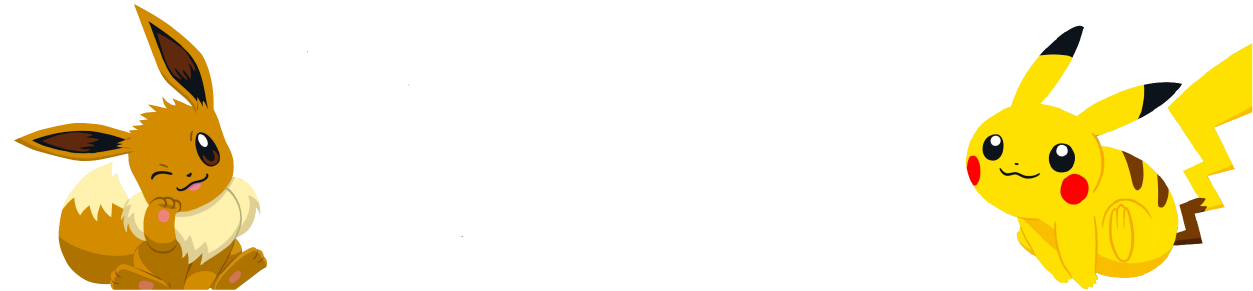
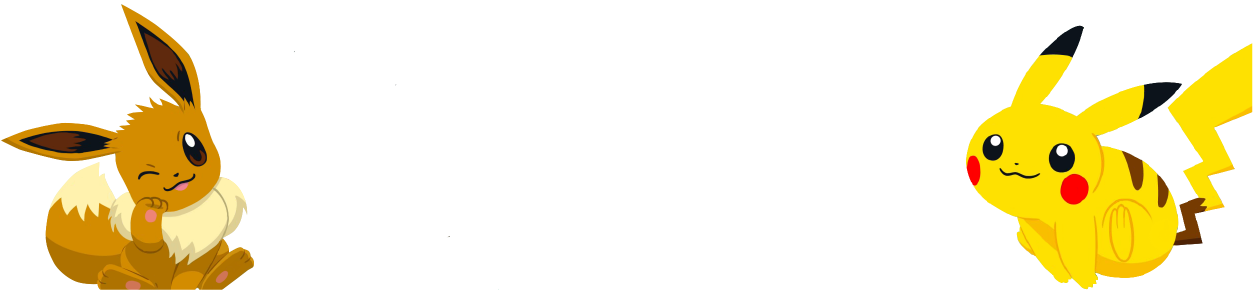
adaptar css caja,  background y elementos padre

Changed region(s): [[0.0, 0.0, 0.2179, 1.0]]

diff --git a/src/main.js b/src/main.js
@@ -58,16 +58,37 @@ let pokeId2 = null;
 let firstPokemon = null;
 let secondPokemon = null;
 
-let score = 0;
-let flips = 0;
+// variables extras para mostrar el score, flips y el timer
+let score = 0; //aciertos
+let flips = 0; //movimientos
+// let tellTime = false; //decir el tiempo
+// let seconds = 3;
+// let countdownTimeId = null; //tiempo regresivo (para que no se vaya a numeros negativos el contador)
 
 // variable para apuntar en el HTML el lugar que se esta insertando los flips y score linea 36 y 38
+// let seeTimer = document.getElementById("time");
 let showFlips = document.getElementById("flips");
 let showScore = document.getElementById("score");
+let selectCards = document.getElementsByClassName("cardsPokemon"); //variable principal del ciclo for y para hacer el refres, que sale del bloque donde se unen las cartas de la linea 38
 
-let selectCards = document.getElementsByClassName("cardsPokemon");
 for (const card of selectCards) {
   card.addEventListener("click", function () {
+    // if (tellTime == false) {
+    //   countTime();
+    //   tellTime = true;
+    // }
+
+    // function countTime() {
+    //   countdownTimeId ==
+    //     setInterval(() => {
+    //       tellTime--;
+    //       seeTimer.innerHTML = `Tiempo: ${seconds} segundos`;
+    //       if (timer == 0) {
+    //         clearInterval(countdownTimeId);
+    //       }
+    //     }, 1000);
+    // }
+
     // list almacena todos los elementos con la clase is flipped
     flippedCards++; // vamos a sumar en el contador de tarjetas 1
     if (flippedCards == 1) {
@@ -123,32 +144,15 @@ function eventFire(el, etype) {
 
 // ------------------------------------------------------------------------------------------------------------------------------------------------------------------------------------------------------------------------------//
 
+// Resetear el juego
+// let boxCardsPokemonReload = "cardsPokemon";
+// document.getElementById("reseatGame").innerHTML = boxCardsPokemonReload;
+
 // Resetear juego
 // Sort arregla los elementos de un array dependiendo del criterio que nosotros querramos aplicar
 // to string, convierte un objeto en un string, por ejemplo un numero dentro de un array
-// function resetGame() {
+
+// function reseatGame() {
 //   card.sort(function () {
 //     return Math.random() - 0.5;
 //   });
-
-//   for (var index = 0; index < 18; index++) {
-//     let card = card[index].id;
-//     let dato = document.getElementById(index.toString());
-//     dato.dataset.valor = carta;
-//   }
-// }
-
-// Reset juego
-// Sort arregla los elementos de un array dependiendo del criterio que nosotros querramos aplicar
-// to string, convierte un objeto en un string, por ejemplo un numero dentro de un array
-// function resetGame() {
-//   card.sort(function () {
-//     return Math.random() - 0.5;
-//   });
-
-//   for (var index = 0; index < 18; index++) {
-//     let card = card[index].id;
-//     let dato = document.getElementById(index.toString());
-//     dato.dataset.valor = carta;
-//   }
-// }

diff --git a/src/style.css b/src/style.css
@@ -13,7 +13,7 @@ h2 {
   font-weight: bold;
   text-align: center;
   color: aliceblue;
-  font-size: 23px;
+  font-size: 1.5rem;
 }
 
 header {
@@ -23,20 +23,21 @@ header {
   background-size: cover;
 }
 
+
 #logo {
-  width: 70%;
+  width: 40vw;
 }
 
-/* main {
-  display: flex;
-  align-items: center;
-} */
+
+.fatherPokeMatchCards{
+display: flex;
+justify-content: center;
+}
+
 
 #pokeMatchCards {
-  max-width: 1000px;
-  margin-left: 30%;
-  margin-right: 25%;
-  padding: 1em;
+  max-width: 40vw;
+  padding: 2vw;
   display: flex;
   flex-direction: row;
   flex-wrap: wrap;
@@ -75,7 +76,6 @@ header {
 }
 
 
-
 .cardCommon {
   position: absolute;
   width: 100%;
@@ -99,16 +99,30 @@ header {
   transform: rotateY(180deg);
 }
 
-/* Aciertos, tiempo y movimientos */
+
+
+
+
+.fatherScoreTimeAndFlips{
+  display: flex;
+  justify-content: center;
+}
+
+/* Aciertos, tiempo(ya no) y movimientos */
 .scoreTimeAndFlips {
+  display: flex;
+  flex-wrap: wrap;
   background-color: #976eaa;
   border-radius: 8px;
   width: 80%;
-  height: 300px;
+  height: 200px;
   align-items: center;
-  padding: 1.2em;
-  margin-right: 10%;
-  margin-left: 10%;
+  padding-top: 1em;
+  padding-bottom: 1.7em;
+  padding-left: 3em;
+  padding-right: 3em;
+  /* margin-right: 20%;
+  margin-left: 10%; */
 }
 
 .statistics {
@@ -119,6 +133,28 @@ header {
   padding: 10px 20px;
   box-sizing: border-box;
   background-color: #8c5aa3;
+}
+
+
+
+
+
+
+
+.fatherReloadButton{
+  display: flex;
+  justify-content: center;
+  padding: 3vw;
+  background-image: url("../img/eeveeAndPikachu.png");
+  background-size: 50%;
+  background-repeat: no-repeat;
+  background-position: center;
+}
+
+
+/* esto de la seccion del boton para colocar nuevas cartas */
+.reloadButton {
+  padding: 2vh;
 }
 
 /* Boton para recargar el panel de cartas */
@@ -133,27 +169,15 @@ header {
   background-color: #8c5aa3;
   border: none;
   color: white;
-  padding: 12px 24px;
+  padding: 24px 50px 24px 50px;
   font-size: 16px;
   border-radius: 10px;
+  text-align: center;
 }
 
 #reseatGame:hover {
   background-color: rgb(43, 151, 103);
 }
-
-/* esto de la seccion del boton para colocar nuevas cartas, aca de fondo se adapta la imagen de pikachu y de eevee */
-.reloadButton {
-  background-image: url("../img/eeveeAndPikachu.png");
-  background-size: cover;
-  text-align: center;
-  height: 90px;
-  border-radius: 10px;
-  padding: 3vh;
-  box-sizing: border-box;
-}
-
-
 
 
 
@@ -182,7 +206,7 @@ footer {
   margin-left: 0.5vh;
 }
 
-/* responsive */
+/* Para que se adapte a diferentes display */
 /* @media screen and (min-width: 780px) and (max-width: 1024px) {
 }
 @media screen and (min-width: 480px) and (max-width: 780px) {

diff --git a/src/index.html b/src/index.html
@@ -22,8 +22,14 @@
 
 
 
+
+
+
     <!--Acá se visualizan los pokemones, esta es la parte más importante, donde se enlazan las cartas-->
-    <div id="pokeMatchCards"></div>
+
+    <section class="fatherPokeMatchCards">
+      <div id="pokeMatchCards"></div>
+    </section>
 
 
 
@@ -32,24 +38,26 @@
 
 
     <!-- Seccion de scores -->
-    <div class="scoreTimeAndFlips">
-      <h2 id="score" class="statistics">Aciertos: 0</h2>
-      <h2 id="time" class="statistics">Tiempo: 30 segundos</h2>
-      <h2 id="flips" class="statistics">Movimientos: 0</h2>
-    </div>
+    <section class="fatherScoreTimeAndFlips">
+      <div class="scoreTimeAndFlips">
+        <!-- <h2 id="time" class="statistics">Tiempo: segundos</h2> -->
+        <h2 id="score" class="statistics">Aciertos: 0</h2>
+        <h2 id="flips" class="statistics">Movimientos: 0</h2>
+      </div>
+    </section>
 
 
     <!-- Botton nuevo juego -->
 
-    <div class="reloadButton">
-      <input type="button" id="reseatGame" value="Reiniciar Juego" onclick="newDashboard()" />
-    </div>
+    <!-- <div class="reloadButton">
+      <input type="button" id="reseatGame" value="Reiniciar Juego" onclick="refreshGame()" />
+    </div> -->
 
-    <!-- <section>
+    <section class="fatherReloadButton">
       <div class="reloadButton">
-        <button onclick="newDashboard" id="reload"> <i class="fa fa-refresh fa-spin"> </i> Nuevo Juego </button>
+        <button id="reseatGame" onclick=""> <i class="fa fa-refresh fa-spin"> </i> Nuevo Juego </button>
       </div>
-    </section> -->
+    </section>
 
   </main>
 
